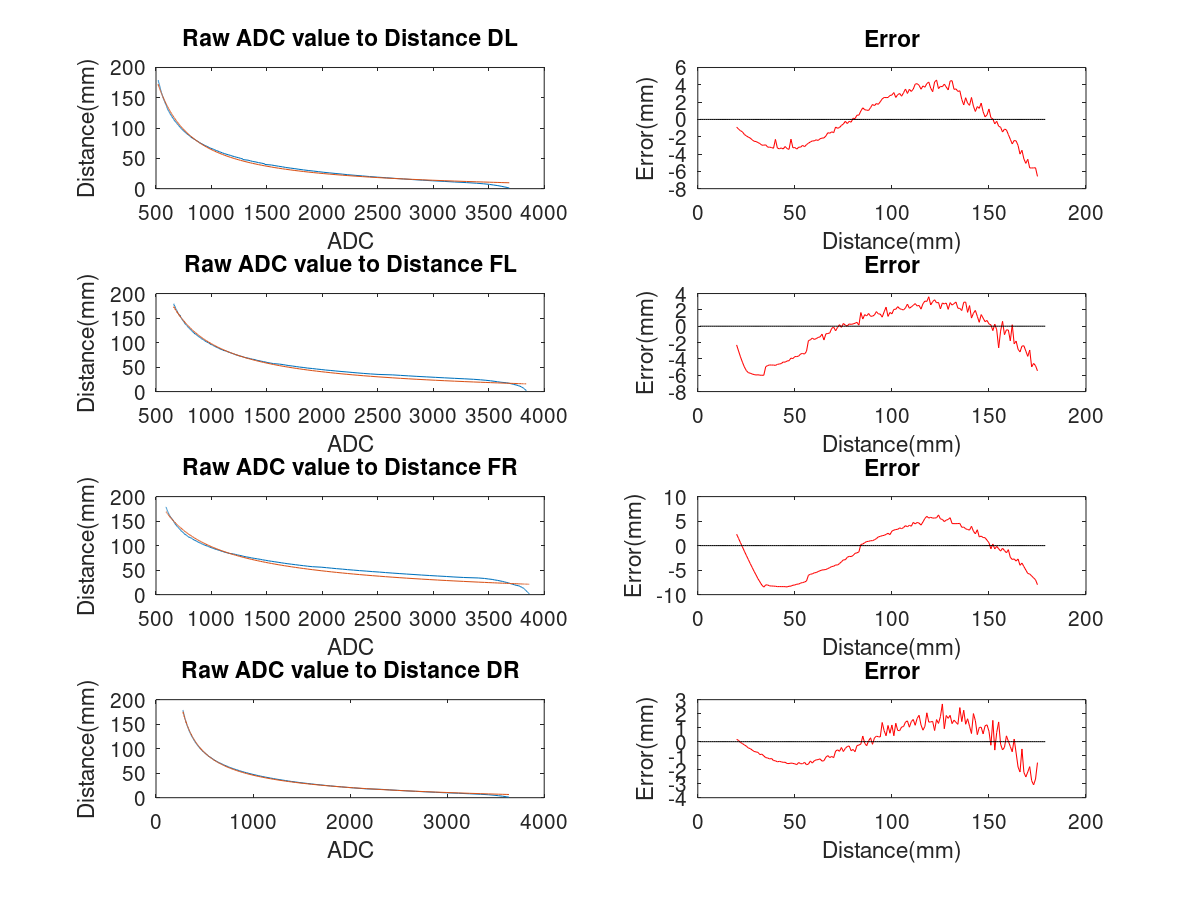
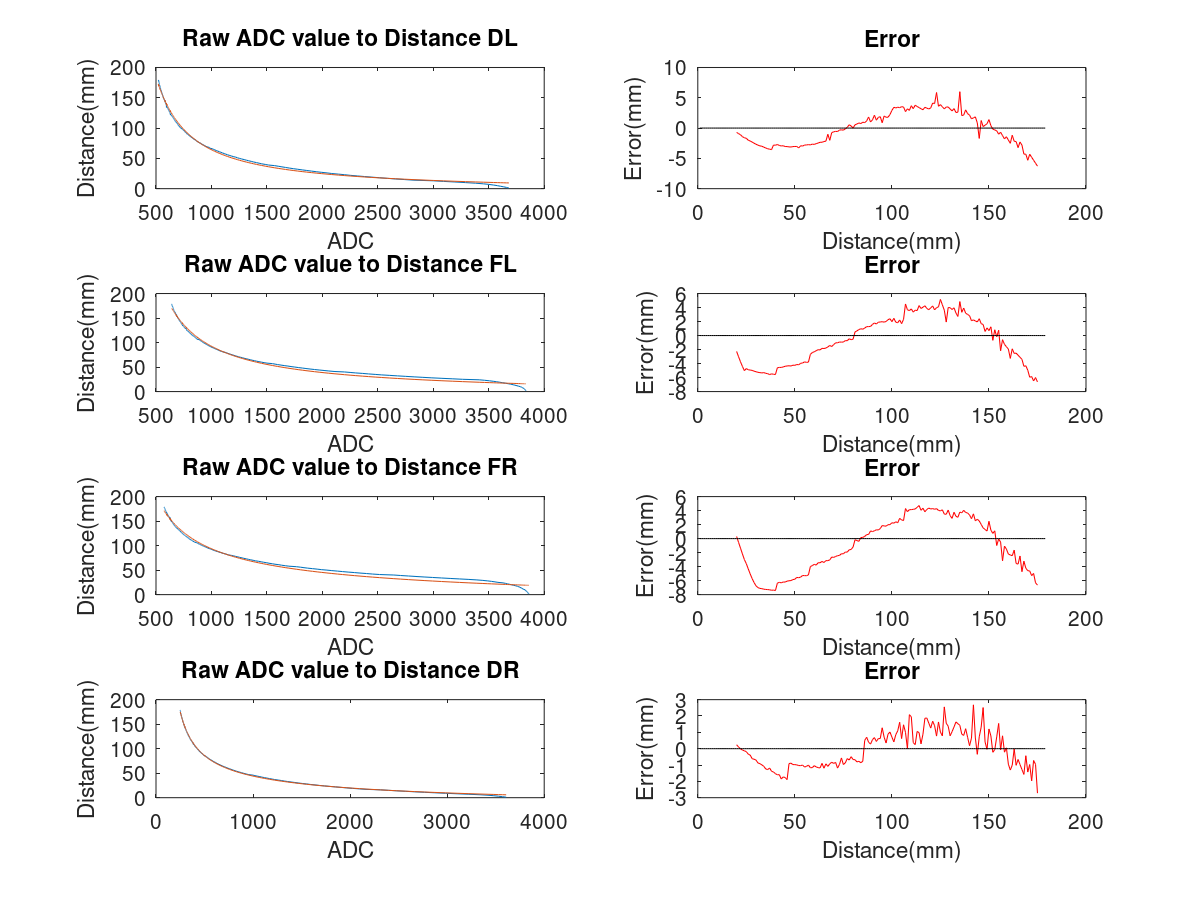
Patrick IR tuning

diff --git a/Inc/WallSensorCalibration.h b/Inc/WallSensorCalibration.h
@@ -72,24 +72,24 @@ float theta2[WALL_SENSOR_COUNT] =
 // DL, FL, FR, DR
 float theta0[WALL_SENSOR_COUNT] =
 	{
-			-19.67499717697693,
-			-30.670730566985071,
-			-41.347383259933309,
-			-31.86986875181514
+			-19.429909716519898,
+			-27.419185242867712,
+			-40.225457807790477,
+			-32.943660047709955
 	};
 float theta1[WALL_SENSOR_COUNT] =
 	{
-			1640.5813300670623,
-			2693.6289897097959,
-			3808.3291437081029,
-			2289.3827548181398
+			1604.6088658567396,
+			2508.5685238238189,
+			3596.5208049422517,
+			2314.2387707955932
 	};
 float theta2[WALL_SENSOR_COUNT] =
 	{
-			32248331.733185463,
-			42994204.508184895,
-			18714145.403996203,
-			5375008.6332362145
+			32983580.716140676,
+			40520731.405684084,
+			20042235.41456762,
+			3822981.8778390442
 	};
 
 #endif

diff --git a/banc_micromouse/main.cpp b/banc_micromouse/main.cpp
@@ -279,7 +279,7 @@ int main()
     }
     cout << "Open table com...";
     //com_table = new Serial("\\\\.\\COM4",9600); //38400);
-    com_table = new Serial("\\\\.\\COM16",9600); //38400);
+    com_table = new Serial("\\\\.\\COM25",9600); //38400);
     if (com_table->IsConnected())
     {
         cout << " [OK]" << endl;
